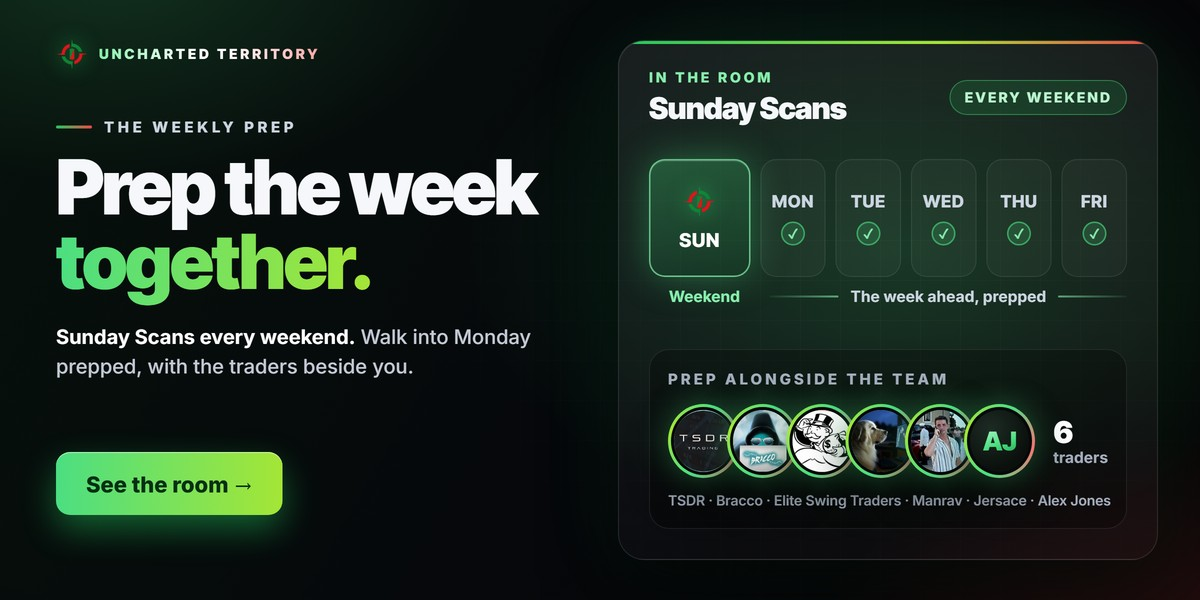
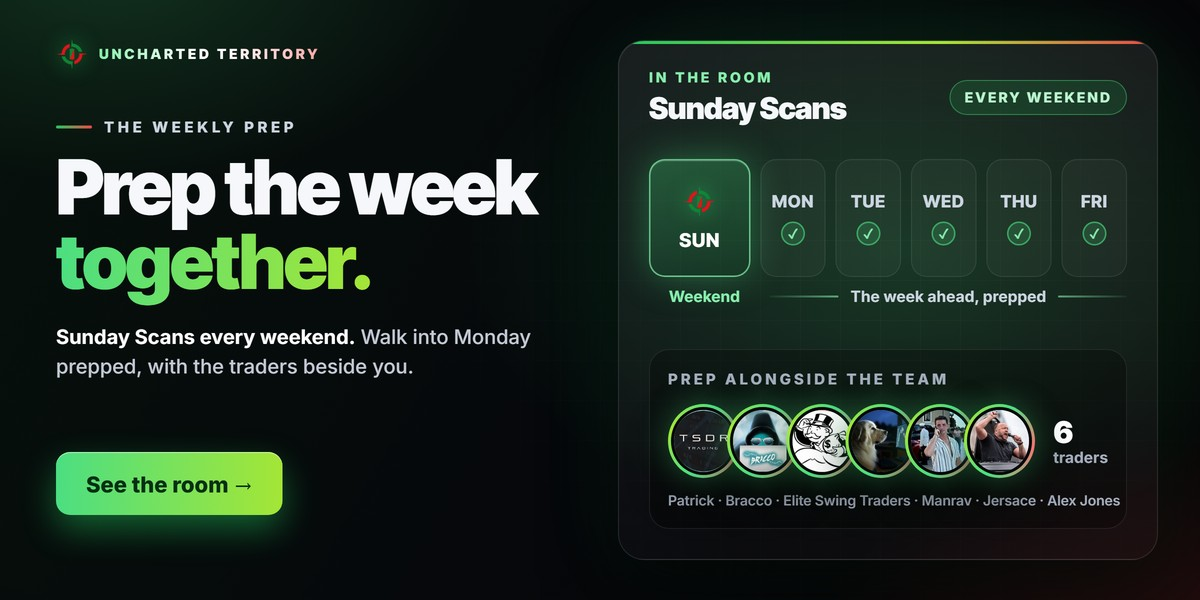
live-trading-room: owner's 10/06-10/11 naming and wording rulings on the page and its images
Owner approved 2026-10-11 ("Update all I can"). Copy: Zoom at 9 AM ET, half an hour
before the 9:30 open (was about 20 minutes before / 9:10); "the game plan and the stocks
they are watching and ready to trade" (was the plan and the levels); Elite Swing Traders
(was ChartMaster); their own channel; "4.9 stars from 173 reviews on Whop"; the hero alt
names Patrick and Bracco as the image labels do. The page test's locked copy moves with it.

Images re-rendered from uct-growth's gallery sources, same names and sizes: the five room
WebPs (1600 and 800) and the hosted email JPGs f01 f02 f03 f04 f08 f10 m01 m02 m04 (Alex
Jones's X picture, Elite Swing Traders, 9 AM, the rating line). The link-preview image is a
new file, og-live-trading-room-v4.jpg, so X/Facebook/Discord refetch it; v3 stays in place.

Claude-Session: https://claude.ai/code/session_01Lf7ZVV2ZYyMNTD4DAwKKdq

Changed region(s): [[0.555, 0.81, 0.925, 0.87], [0.8017, 0.69, 0.8633, 0.78]]

diff --git a/app/public/live-trading-room/index.html b/app/public/live-trading-room/index.html
@@ -13,7 +13,7 @@
   <meta charset="utf-8" />
   <meta name="viewport" content="width=device-width, initial-scale=1" />
   <title>Live Trading Room Run by Traders Who Trade and Teach | Uncharted Territory</title>
-  <meta name="description" content="A live trading room run by traders who trade, and teach, every single day. Every market morning, about 20 minutes before the 9:30 AM ET open, Patrick (TSDR) and Bracco go live on Zoom, lay out the plan and the levels, then trade the open on screen share." />
+  <meta name="description" content="A live trading room run by traders who trade, and teach, every single day. Every market morning at 9 AM ET, half an hour before the 9:30 open, Patrick (TSDR) and Bracco go live on Zoom, lay out the game plan and the stocks they are watching and ready to trade, then trade the open on screen share." />
   <link rel="canonical" href="https://uctintelligence.com/live-trading-room" />
   <meta name="robots" content="index, follow" />
   <meta name="theme-color" content="#0a0d0b" />
@@ -23,16 +23,16 @@
   <meta property="og:site_name" content="Uncharted Territory" />
   <meta property="og:url" content="https://uctintelligence.com/live-trading-room" />
   <meta property="og:title" content="A live trading room run by traders who trade, and teach, every single day" />
-  <meta property="og:description" content="Patrick (TSDR) and Bracco go live on Zoom every market morning before the open, lay out the plan and the levels, then trade the open on screen share and talk through every decision." />
-  <meta property="og:image" content="https://uctintelligence.com/live-trading-room/og-live-trading-room-v3.jpg" />
+  <meta property="og:description" content="Patrick (TSDR) and Bracco go live on Zoom every market morning before the open, lay out the game plan and the stocks they are watching and ready to trade, then trade the open on screen share and talk through every decision." />
+  <meta property="og:image" content="https://uctintelligence.com/live-trading-room/og-live-trading-room-v4.jpg" />
   <meta property="og:image:type" content="image/jpeg" />
   <meta property="og:image:width" content="1200" />
   <meta property="og:image:height" content="600" />
-  <meta property="og:image:alt" content="The people in the Uncharted Territory trading room: Patrick (TSDR), Bracco, ChartMaster, Manrav, Jersace and Alex Jones." />
+  <meta property="og:image:alt" content="The people in the Uncharted Territory trading room: Patrick (TSDR), Bracco, Elite Swing Traders, Manrav, Jersace and Alex Jones." />
   <meta name="twitter:card" content="summary_large_image" />
   <meta name="twitter:title" content="A live trading room run by traders who trade, and teach, every single day" />
   <meta name="twitter:description" content="Patrick (TSDR) and Bracco go live on Zoom every market morning before the open and trade it on screen share. Alerts, options flow, workshops and Sunday Scans." />
-  <meta name="twitter:image" content="https://uctintelligence.com/live-trading-room/og-live-trading-room-v3.jpg" />
+  <meta name="twitter:image" content="https://uctintelligence.com/live-trading-room/og-live-trading-room-v4.jpg" />
 
   <link rel="preload" as="font" type="font/woff2" href="/fonts/instrument-sans-v4-latin.woff2" crossorigin />
   <link rel="preload" as="image" href="/live-trading-room/room-traders-1600.webp"
@@ -58,7 +58,7 @@
         "name": "What time is the live session, and what if I can't watch?",
         "acceptedAnswer": {
           "@type": "Answer",
-          "text": "The Zoom link drops about 20 minutes before the 9:30 AM ET open, every market day. Patrick (TSDR) and Bracco plan the day, then trade the open live. Can't make it? Every session is recorded, with a recap the same day."
+          "text": "The Zoom link drops at 9 AM ET, half an hour before the 9:30 open, every market day. Patrick (TSDR) and Bracco plan the day, then trade the open live. Can't make it? Every session is recorded, with a recap the same day."
         }
       },
       {
@@ -66,7 +66,7 @@
         "name": "Who are the traders?",
         "acceptedAnswer": {
           "@type": "Answer",
-          "text": "Patrick (TSDR) and Bracco run the morning Zoom. ChartMaster is always easy to reach and runs our educational workshops. Alex Jones and a team of three skilled contributors run our robust options flow feed. Manrav and Jersace post ideas and alerts."
+          "text": "Patrick (TSDR) and Bracco run the morning Zoom. Elite Swing Traders is always easy to reach and runs our educational workshops. Alex Jones and a team of three skilled contributors run our robust options flow feed. Manrav and Jersace post ideas and alerts."
         }
       },
       {
@@ -392,7 +392,7 @@
       <p class="eyebrow">Live trading room</p>
       <h1>A live trading room run by traders who trade, <span class="hl">and teach, every single day</span></h1>
       <p class="lede">Before you join any trading room, you should see what happens inside it and meet the people who run it. Here's ours.</p>
-      <p class="lede">Every market morning, about 20 minutes before the 9:30 AM ET open, co-founders Patrick (TSDR) and Bracco go live on Zoom. They lay out the plan and the levels, then trade the open on screen share and talk through every decision. Around them: five traders, an options flow team, and a productive, helpful and focused main chat.</p>
+      <p class="lede">Every market morning at 9 AM ET, half an hour before the 9:30 open, co-founders Patrick (TSDR) and Bracco go live on Zoom. They lay out the game plan and the stocks they are watching and ready to trade, then trade the open on screen share and talk through every decision. Around them: five traders, an options flow team, and a productive, helpful and focused main chat.</p>
       <div class="cta-row">
         <a class="btn" href="https://whop.com/c/uncharted/uct-site" rel="noopener">Join the live trading room <span aria-hidden="true">&rarr;</span></a>
         <details class="talk" id="talk">
@@ -441,13 +441,13 @@
       <p class="talk-msg ok talk-target" id="call-sent" role="status">Thanks. The Uncharted Territory team will reach out soon to set up your call.</p>
       <p class="talk-msg err talk-target" id="call-error" role="alert">Sorry, that did not go through. Please check your name and phone number and try again.</p>
       <p class="talk-msg err talk-target" id="call-unavailable" role="alert">Sorry, we could not send your request just now. Please try again later.</p>
-      <p class="rating"><span class="stars" aria-hidden="true">&#9733;&#9733;&#9733;&#9733;&#9733;</span>4.9 stars from 173 member reviews on Whop.</p>
+      <p class="rating"><span class="stars" aria-hidden="true">&#9733;&#9733;&#9733;&#9733;&#9733;</span>4.9 stars from 173 reviews on Whop.</p>
       <div class="figure">
         <a class="figure-link" href="https://whop.com/c/uncharted/uct-site" rel="noopener"><img src="/live-trading-room/room-traders-1600.webp"
              srcset="/live-trading-room/room-traders-800.webp 800w, /live-trading-room/room-traders-1600.webp 1600w"
              sizes="(max-width: 1120px) calc(100vw - 32px), 1080px"
              width="1600" height="800" fetchpriority="high"
-             alt="The people in the room: Patrick (TSDR) and Bracco (morning Zoom), ChartMaster (swing trades), Manrav and Jersace (trade ideas) and Alex Jones (options flow). See the room on Whop." /></a>
+             alt="The people in the room: Patrick and Bracco (morning Zoom), Elite Swing Traders (swing trades), Manrav and Jersace (trade ideas) and Alex Jones (options flow). See the room on Whop." /></a>
       </div>
     </div>
 
@@ -455,10 +455,10 @@
       <p class="kicker">How a day works</p>
       <h2 id="day">A day inside</h2>
       <ol class="timeline">
-        <li><strong>About 9:10 AM ET.</strong> The Zoom link drops in the live Zoom links channel.</li>
-        <li><strong>Before the open.</strong> Patrick (TSDR) and Bracco walk through the market, the levels and the names on their list.</li>
+        <li><strong>At 9 AM ET.</strong> The Zoom link drops in the live Zoom links channel.</li>
+        <li><strong>Before the open.</strong> Patrick (TSDR) and Bracco walk through the game plan and the stocks they are watching and ready to trade.</li>
         <li><strong>9:30 AM ET.</strong> They trade the open live on screen share and talk through each decision.</li>
-        <li><strong>During the day.</strong> Each trader posts ideas and alerts in his own channel. Options flow and news run all day. Questions go in main chat.</li>
+        <li><strong>During the day.</strong> Each trader posts ideas and alerts in their own channel. Options flow and news run all day. Questions go in main chat.</li>
         <li><strong>After the close.</strong> Every session is recorded, with a recap the same day. About 15 minutes catches you up.</li>
         <li><strong>The weekend.</strong> Sunday Scans lands with the prep for the week ahead.</li>
       </ol>
@@ -469,9 +469,9 @@
       <h2 id="traders">The traders</h2>
       <ul class="traders">
         <li class="trader"><h3>Patrick (TSDR) and Bracco</h3><p>Run the morning Zoom and explain every trade, including the ones they pass on.</p></li>
-        <li class="trader"><h3>ChartMaster</h3><p>Swing trade ideas, educational workshops, and always easy to reach. Years of his workshops are in the library.</p></li>
+        <li class="trader"><h3>Elite Swing Traders</h3><p>Swing trade ideas, educational workshops, and always easy to reach. Elite Swing Traders' library alone goes back years.</p></li>
         <li class="trader"><h3>Alex Jones and a team of three skilled contributors</h3><p>Run our robust options flow feed.</p></li>
-        <li class="trader"><h3>Manrav and Jersace</h3><p>Trade ideas and alerts, each in his own channel.</p></li>
+        <li class="trader"><h3>Manrav and Jersace</h3><p>Trade ideas and alerts, each in their own channel.</p></li>
       </ul>
       <p class="note">Every trader, contributor and member is helpful, easy to reach, and happy to teach.</p>
       <div class="figure">
@@ -501,7 +501,7 @@
                srcset="/live-trading-room/room-chartmaster-800.webp 800w, /live-trading-room/room-chartmaster-1600.webp 1600w"
                sizes="(max-width: 899px) calc(100vw - 32px), 520px"
                width="1600" height="800" loading="lazy" decoding="async"
-               alt="Learn the craft with ChartMaster: swing trade ideas, educational workshops, and always easy to reach with questions. See the room on Whop." /></a>
+               alt="Learn the craft with Elite Swing Traders: swing trade ideas, educational workshops, and always easy to reach with questions. See the room on Whop." /></a>
         </div>
         <div class="figure">
           <a class="figure-link" href="https://whop.com/c/uncharted/uct-site" rel="noopener"><img src="/live-trading-room/room-welcome-1600.webp"
@@ -527,7 +527,7 @@
     <section aria-labelledby="reviews">
       <p class="kicker">From members</p>
       <h2 id="reviews">What members say</h2>
-      <p class="rating" style="margin:0 0 18px"><span class="stars" aria-hidden="true">&#9733;&#9733;&#9733;&#9733;&#9733;</span>4.9 stars from 173 member reviews on Whop.</p>
+      <p class="rating" style="margin:0 0 18px"><span class="stars" aria-hidden="true">&#9733;&#9733;&#9733;&#9733;&#9733;</span>4.9 stars from 173 reviews on Whop.</p>
       <div class="reviews">
         <figure class="review"><blockquote>&ldquo;There are a ton of gifted traders in the room.&rdquo;</blockquote><figcaption><strong>Josh</strong>, Whop review</figcaption></figure>
         <figure class="review"><blockquote>&ldquo;The community is just phenomenal ... you get step by steps into the thought process of brilliant traders.&rdquo;</blockquote><figcaption><strong>Justin Brannan</strong>, Whop review</figcaption></figure>
@@ -548,11 +548,11 @@
       <h2 id="faq">Frequently asked questions</h2>
       <details open>
         <summary>What time is the live session, and what if I can't watch?</summary>
-        <p>The Zoom link drops about 20 minutes before the 9:30 AM ET open, every market day. Patrick (TSDR) and Bracco plan the day, then trade the open live. Can't make it? Every session is recorded, with a recap the same day.</p>
+        <p>The Zoom link drops at 9 AM ET, half an hour before the 9:30 open, every market day. Patrick (TSDR) and Bracco plan the day, then trade the open live. Can't make it? Every session is recorded, with a recap the same day.</p>
       </details>
       <details>
         <summary>Who are the traders?</summary>
-        <p>Patrick (TSDR) and Bracco run the morning Zoom. ChartMaster is always easy to reach and runs our educational workshops. Alex Jones and a team of three skilled contributors run our robust options flow feed. Manrav and Jersace post ideas and alerts.</p>
+        <p>Patrick (TSDR) and Bracco run the morning Zoom. Elite Swing Traders is always easy to reach and runs our educational workshops. Alex Jones and a team of three skilled contributors run our robust options flow feed. Manrav and Jersace post ideas and alerts.</p>
       </details>
       <details>
         <summary>I'm new to trading. Is this for me?</summary>

diff --git a/tests/test_live_trading_room_page.py b/tests/test_live_trading_room_page.py
@@ -162,8 +162,9 @@ def test_the_footer_social_row_links_the_approved_accounts_with_labels():
 def test_the_owner_is_named_patrick_tsdr_everywhere():
     html = PAGE.read_text(encoding="utf-8")
     # The X handle keeps its name; every other mention carries "Patrick (TSDR)".
+    # 11 since 2026-10-11: the hero image alt names "Patrick and Bracco", as the image labels do.
     rest = html.replace("TSDR_Trading", "").replace("TSDR Trading on", "")
-    assert rest.count("TSDR") == rest.count("Patrick (TSDR)") == 12, (rest.count("TSDR"), rest.count("Patrick (TSDR)"))
+    assert rest.count("TSDR") == rest.count("Patrick (TSDR)") == 11, (rest.count("TSDR"), rest.count("Patrick (TSDR)"))
     assert "TSDR (Patrick)" not in html
     p = _parsed()
     for desc in (_meta(p, name="description"), _meta(p, property="og:description"), _meta(p, name="twitter:description")):
@@ -568,16 +569,17 @@ V4_H1 = "A live trading room run by traders who trade, and teach, every single d
 V4_INTRO = [
     "Before you join any trading room, you should see what happens inside it and meet the people "
     "who run it. Here's ours.",
-    "Every market morning, about 20 minutes before the 9:30 AM ET open, co-founders Patrick (TSDR) "
-    "and Bracco go live on Zoom. They lay out the plan and the levels, then trade the open on screen "
+    "Every market morning at 9 AM ET, half an hour before the 9:30 open, co-founders Patrick (TSDR) "
+    "and Bracco go live on Zoom. They lay out the game plan and the stocks they are watching and ready "
+    "to trade, then trade the open on screen "
     "share and talk through every decision. Around them: five traders, an options flow team, and a "
     "productive, helpful and focused main chat.",
 ]
 V4_TIMELINE = [
-    ("About 9:10 AM ET.", "The Zoom link drops in the live Zoom links channel."),
-    ("Before the open.", "Patrick (TSDR) and Bracco walk through the market, the levels and the names on their list."),
+    ("At 9 AM ET.", "The Zoom link drops in the live Zoom links channel."),
+    ("Before the open.", "Patrick (TSDR) and Bracco walk through the game plan and the stocks they are watching and ready to trade."),
     ("9:30 AM ET.", "They trade the open live on screen share and talk through each decision."),
-    ("During the day.", "Each trader posts ideas and alerts in his own channel. Options flow and news "
+    ("During the day.", "Each trader posts ideas and alerts in their own channel. Options flow and news "
                         "run all day. Questions go in main chat."),
     ("After the close.", "Every session is recorded, with a recap the same day. About 15 minutes catches you up."),
     ("The weekend.", "Sunday Scans lands with the prep for the week ahead."),
@@ -585,10 +587,10 @@ V4_TIMELINE = [
 V4_TRADERS = [
     ("Patrick (TSDR) and Bracco", "Run the morning Zoom and explain every trade, "
                         "including the ones they pass on."),
-    ("ChartMaster", "Swing trade ideas, educational workshops, and always easy to reach. Years of "
-                    "his workshops are in the library."),
+    ("Elite Swing Traders", "Swing trade ideas, educational workshops, and always easy to reach. Elite "
+                            "Swing Traders' library alone goes back years."),
     ("Alex Jones and a team of three skilled contributors", "Run our robust options flow feed."),
-    ("Manrav and Jersace", "Trade ideas and alerts, each in his own channel."),
+    ("Manrav and Jersace", "Trade ideas and alerts, each in their own channel."),
 ]
 V4_TRADERS_CLOSING = "Every trader, contributor and member is helpful, easy to reach, and happy to teach."
 V4_INSIDE = [
@@ -647,7 +649,7 @@ def test_v4_intro_is_two_locked_paragraphs_and_keeps_the_cta_lines():
     assert _blocks("p", "lede") == V4_INTRO
     hero = _norm(_hero())
     assert "Use code JOINUCT for a nice discount to join the group." in hero
-    assert "4.9 stars from 173 member reviews on Whop." in hero
+    assert "4.9 stars from 173 reviews on Whop." in hero
     assert "Join the live trading room" in hero
 
 
